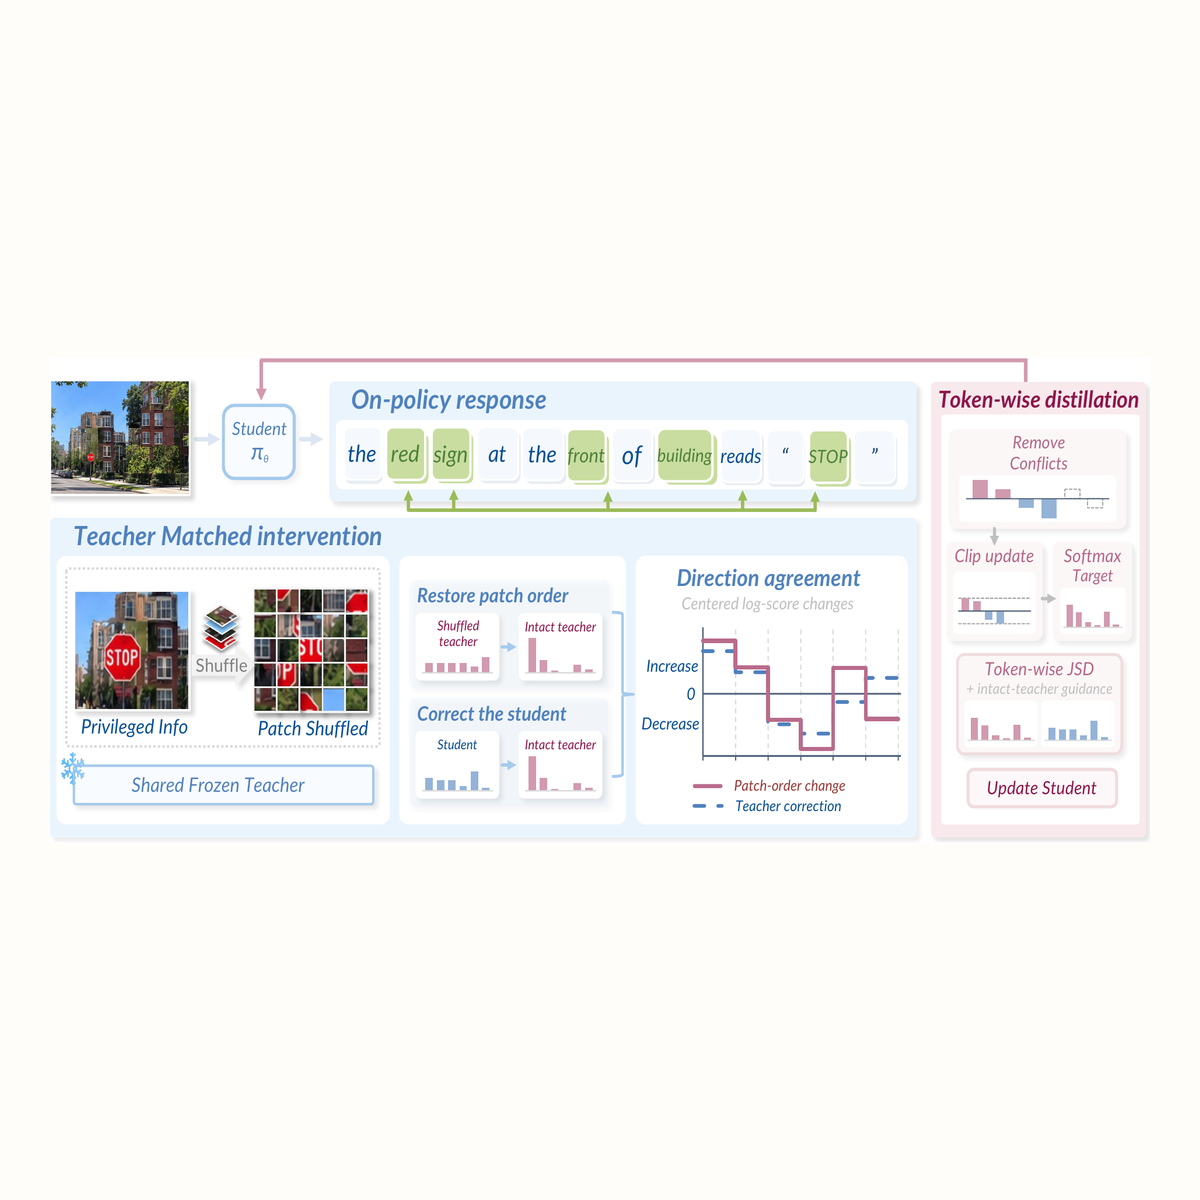
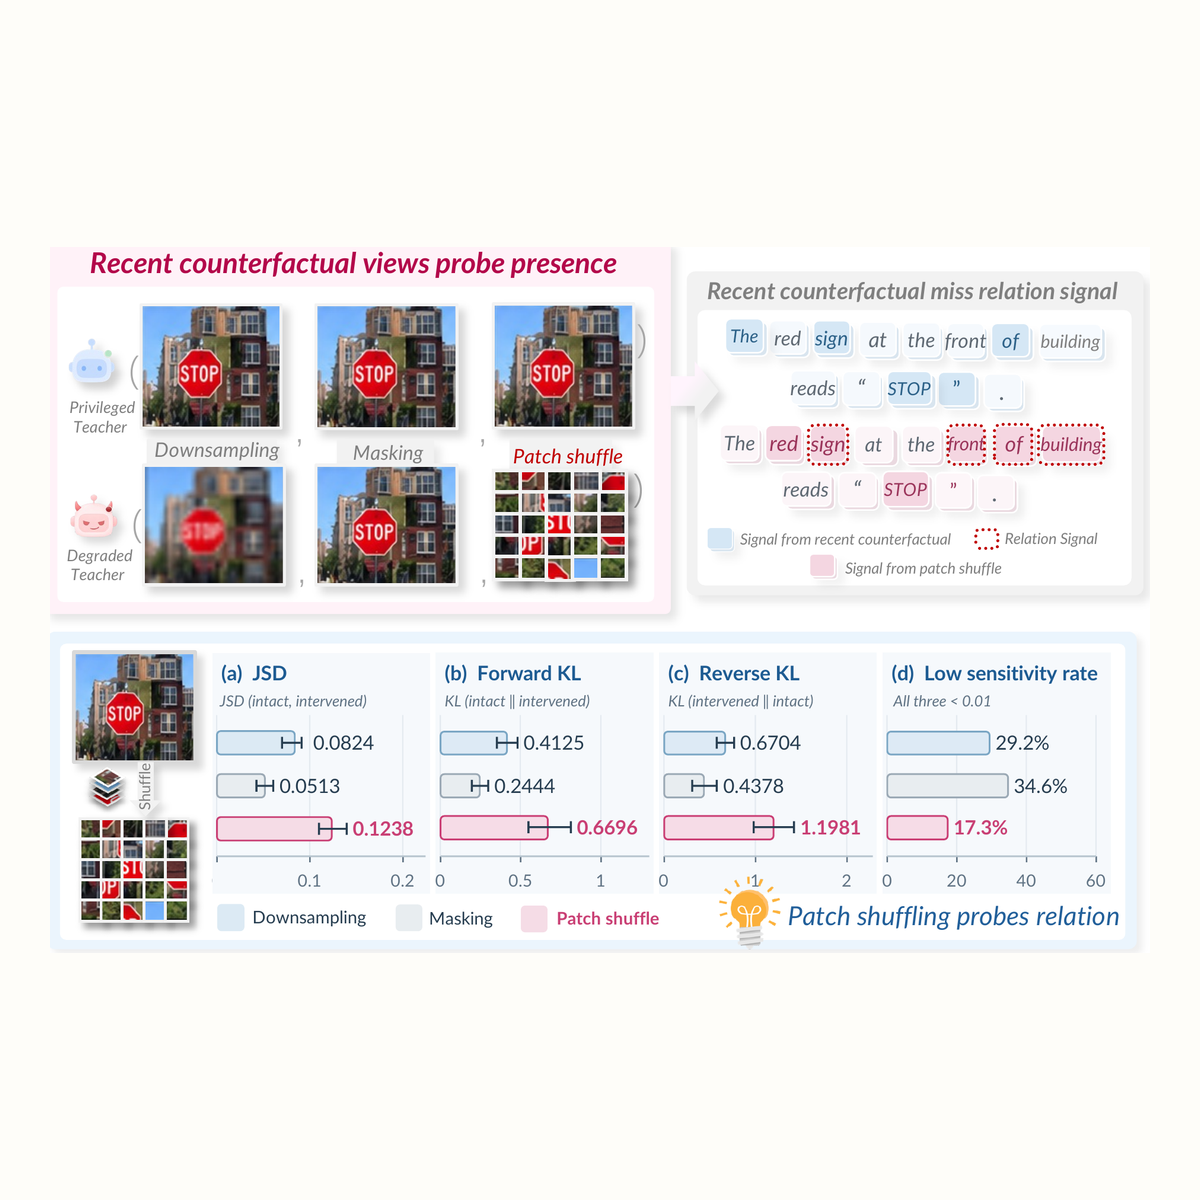
refactor(papers): sort visual reasoning by author position
Order the Visual Reasoning list by the position of Yihao Quan in the
author list (first author, then second, then third); ties keep preprints
and newer venues first. "Improving Visual Reasoning with Iterative
Evidence Refinement" moves from 3rd to 6th.

Replace the PSCD cover with the paper's Figure 1 (was Figure 2) and add
a version query so browsers fetch the new image.

Changed region(s): [[0.0308, 0.2158, 0.9558, 0.8017], [0.37, 0.74, 0.4008, 0.7708]]

diff --git a/index.html b/index.html
@@ -163,7 +163,7 @@
             <li>
               <article class="paper">
                 <a class="thumb" href="https://drive.google.com/file/d/1PySDhVXzBWxCpusQ1Q6IfTwtJyoKdYoC/view?usp=sharing" target="_blank" rel="noopener noreferrer" aria-label="Open Patch-Shuffle Counterfactual Distillation preprint">
-                  <img src="assets/preprints/pscd-cover.png" alt="Patch-Shuffle Counterfactual Distillation paper preview" />
+                  <img src="assets/preprints/pscd-cover.png?v=20261113-fig1" alt="Patch-Shuffle Counterfactual Distillation paper preview" />
                 </a>
                 <div class="paper-meta">
                   <p class="venue">Preprint</p>
@@ -171,36 +171,6 @@
                   <p class="authors"><span class="me">Yihao Quan</span>, Jiang Liu, Ximeng Sun, Jialian Wu, Ruixiang Tang, Emad Barsoum, Zicheng Liu</p>
                   <p class="paper-links">
                     <a href="https://drive.google.com/file/d/1PySDhVXzBWxCpusQ1Q6IfTwtJyoKdYoC/view?usp=sharing" target="_blank" rel="noopener noreferrer">paper</a>
-                  </p>
-                </div>
-              </article>
-            </li>
-            <li>
-              <article class="paper">
-                <a class="thumb" href="https://arxiv.org/abs/2609.37096" target="_blank" rel="noopener noreferrer" aria-label="Open ConvStack preprint">
-                  <img src="assets/preprints/convstack-cover.png" alt="ConvStack paper preview" />
-                </a>
-                <div class="paper-meta">
-                  <p class="venue">Preprint</p>
-                  <h3><a href="https://arxiv.org/abs/2609.37096" target="_blank" rel="noopener noreferrer">Why MLLMs Struggle to Count: Overcoming Individuation and Aggregation Bottlenecks with ConvStack</a></h3>
-                  <p class="authors">Liwei Che*, <span class="me">Yihao Quan*</span>, Sen Fang, Hongyi Wang, Ranjay Krishna, Ruixiang Tang, Vladimir Pavlovic</p>
-                  <p class="paper-links">
-                    <a href="https://arxiv.org/abs/2609.37096" target="_blank" rel="noopener noreferrer">paper</a>
-                  </p>
-                </div>
-              </article>
-            </li>
-            <li>
-              <article class="paper">
-                <a class="thumb" href="https://arxiv.org/abs/2603.14117" target="_blank" rel="noopener noreferrer" aria-label="Open visual reasoning preprint">
-                  <img src="assets/preprints/thinking_image_cover.png" alt="Visual reasoning preprint preview" />
-                </a>
-                <div class="paper-meta">
-                  <p class="venue">Preprint</p>
-                  <h3><a href="https://arxiv.org/abs/2603.14117" target="_blank" rel="noopener noreferrer">Improving Visual Reasoning with Iterative Evidence Refinement</a></h3>
-                  <p class="authors">Zeru Shi*, Kai Mei*, <span class="me">Yihao Quan</span>, Dimitris N. Metaxas, Ruixiang Tang</p>
-                  <p class="paper-links">
-                    <a href="https://arxiv.org/abs/2603.14117" target="_blank" rel="noopener noreferrer">paper</a>
                   </p>
                 </div>
               </article>
@@ -236,6 +206,21 @@
             </div>
           </article>
         </li>
+            <li>
+              <article class="paper">
+                <a class="thumb" href="https://arxiv.org/abs/2609.37096" target="_blank" rel="noopener noreferrer" aria-label="Open ConvStack preprint">
+                  <img src="assets/preprints/convstack-cover.png" alt="ConvStack paper preview" />
+                </a>
+                <div class="paper-meta">
+                  <p class="venue">Preprint</p>
+                  <h3><a href="https://arxiv.org/abs/2609.37096" target="_blank" rel="noopener noreferrer">Why MLLMs Struggle to Count: Overcoming Individuation and Aggregation Bottlenecks with ConvStack</a></h3>
+                  <p class="authors">Liwei Che*, <span class="me">Yihao Quan*</span>, Sen Fang, Hongyi Wang, Ranjay Krishna, Ruixiang Tang, Vladimir Pavlovic</p>
+                  <p class="paper-links">
+                    <a href="https://arxiv.org/abs/2609.37096" target="_blank" rel="noopener noreferrer">paper</a>
+                  </p>
+                </div>
+              </article>
+            </li>
         <li>
           <article class="paper">
             <a class="thumb" href="https://drive.google.com/file/d/1XuHuZwNjleqirI5_Ag9eOD_GavYCNo7Q/view?usp=sharing" target="_blank" rel="noopener noreferrer" aria-label="Open ART paper">
@@ -252,6 +237,21 @@
             </div>
           </article>
         </li>
+            <li>
+              <article class="paper">
+                <a class="thumb" href="https://arxiv.org/abs/2603.14117" target="_blank" rel="noopener noreferrer" aria-label="Open visual reasoning preprint">
+                  <img src="assets/preprints/thinking_image_cover.png" alt="Visual reasoning preprint preview" />
+                </a>
+                <div class="paper-meta">
+                  <p class="venue">Preprint</p>
+                  <h3><a href="https://arxiv.org/abs/2603.14117" target="_blank" rel="noopener noreferrer">Improving Visual Reasoning with Iterative Evidence Refinement</a></h3>
+                  <p class="authors">Zeru Shi*, Kai Mei*, <span class="me">Yihao Quan</span>, Dimitris N. Metaxas, Ruixiang Tang</p>
+                  <p class="paper-links">
+                    <a href="https://arxiv.org/abs/2603.14117" target="_blank" rel="noopener noreferrer">paper</a>
+                  </p>
+                </div>
+              </article>
+            </li>
             <li>
               <article class="paper">
                 <a class="thumb" href="https://arxiv.org/abs/2412.09817" target="_blank" rel="noopener noreferrer" aria-label="Open Similarity Computation paper">
